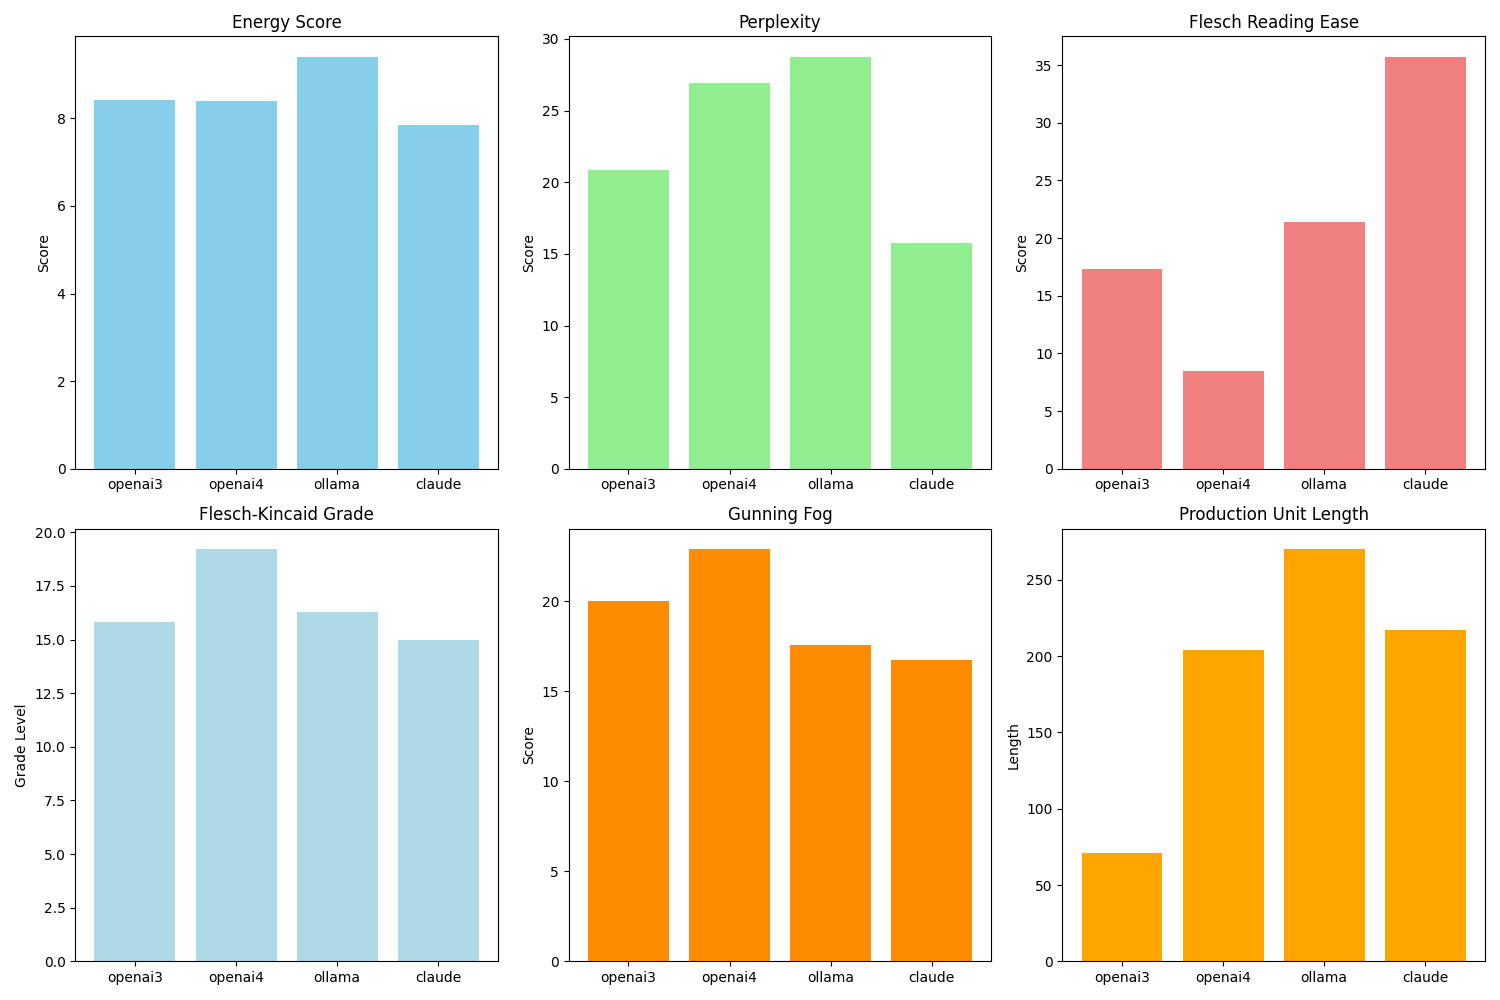
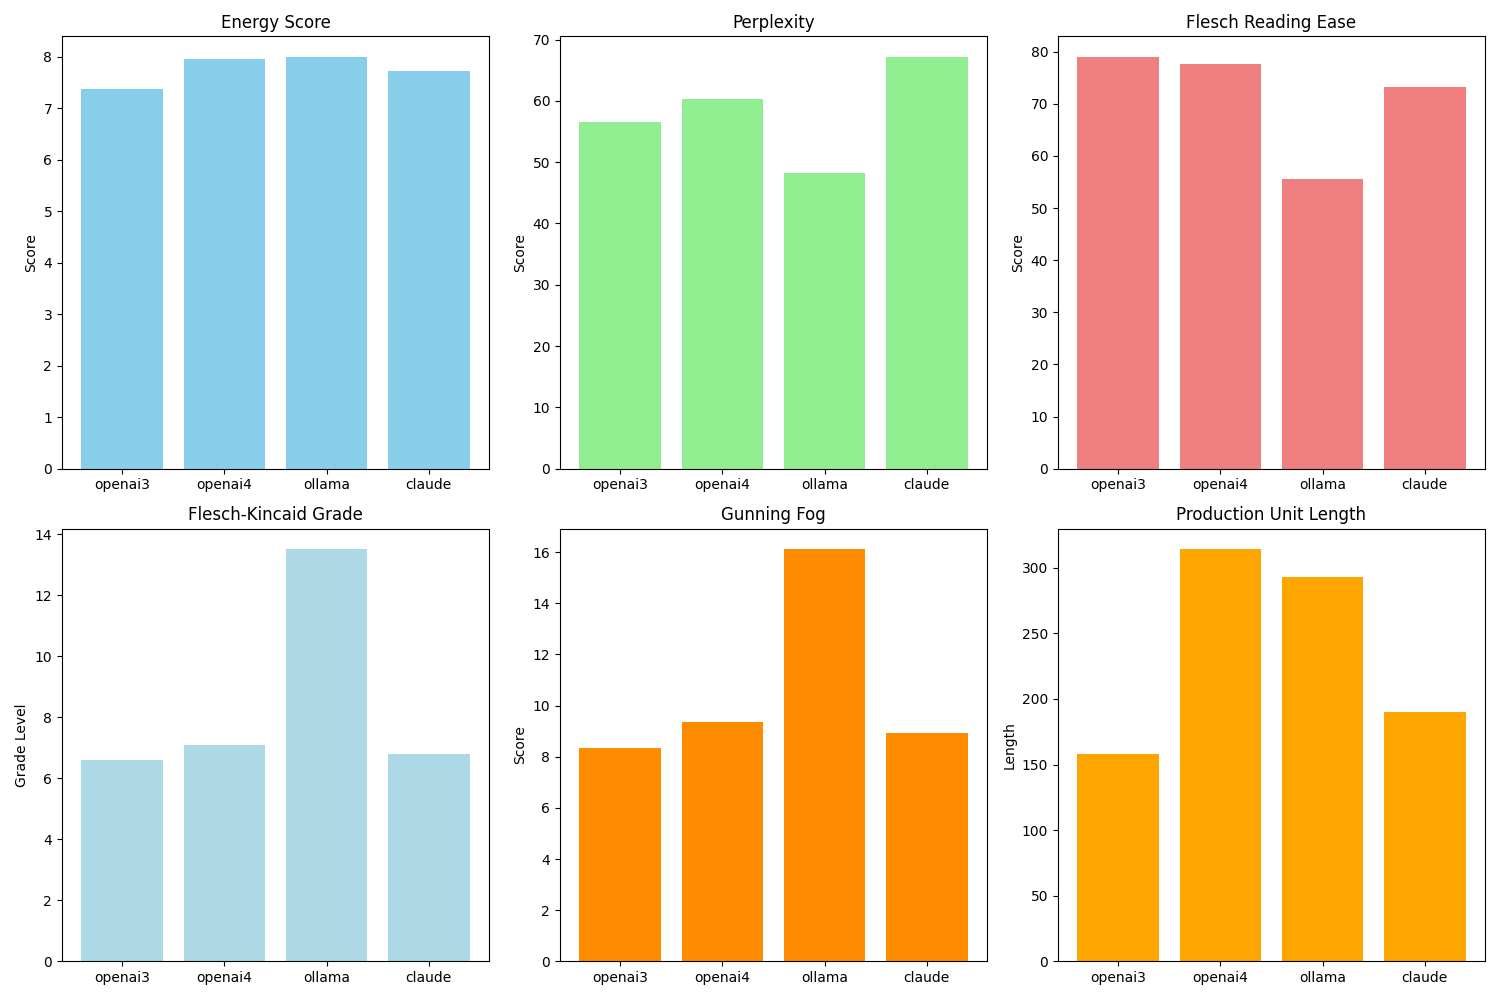
Updated run to create poetry

diff --git a/llm_text_analysis.py b/llm_text_analysis.py
@@ -61,7 +61,7 @@ llmcalls = ['openai3', 'openai4', 'ollama', 'claude']
 
 responses = {}
 for llmcall in llmcalls:
-    response = get_llm_response("Please write a succinct summary that explains the impact of artificial intelligence on the future of work", llmcall)
+    response = get_llm_response("Please write a beautiful fragment of an epic poem that explains the impact of intelligence on life", llmcall)
     responses[llmcall] = response
 
 def calculate_pul(sentence):
